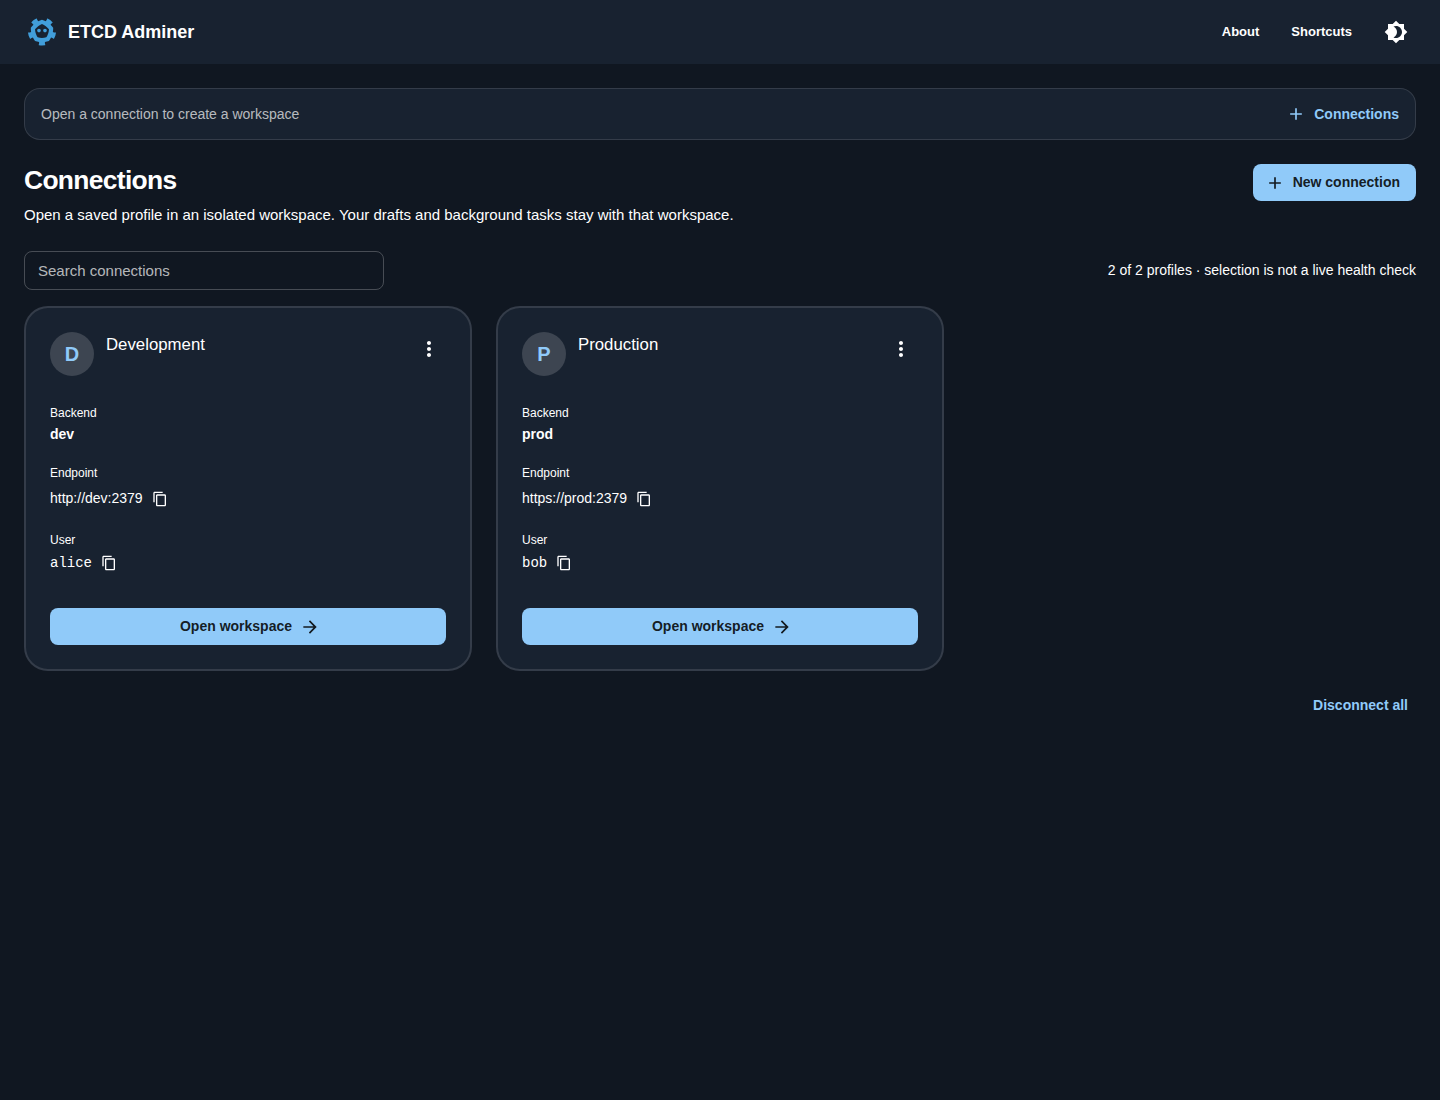
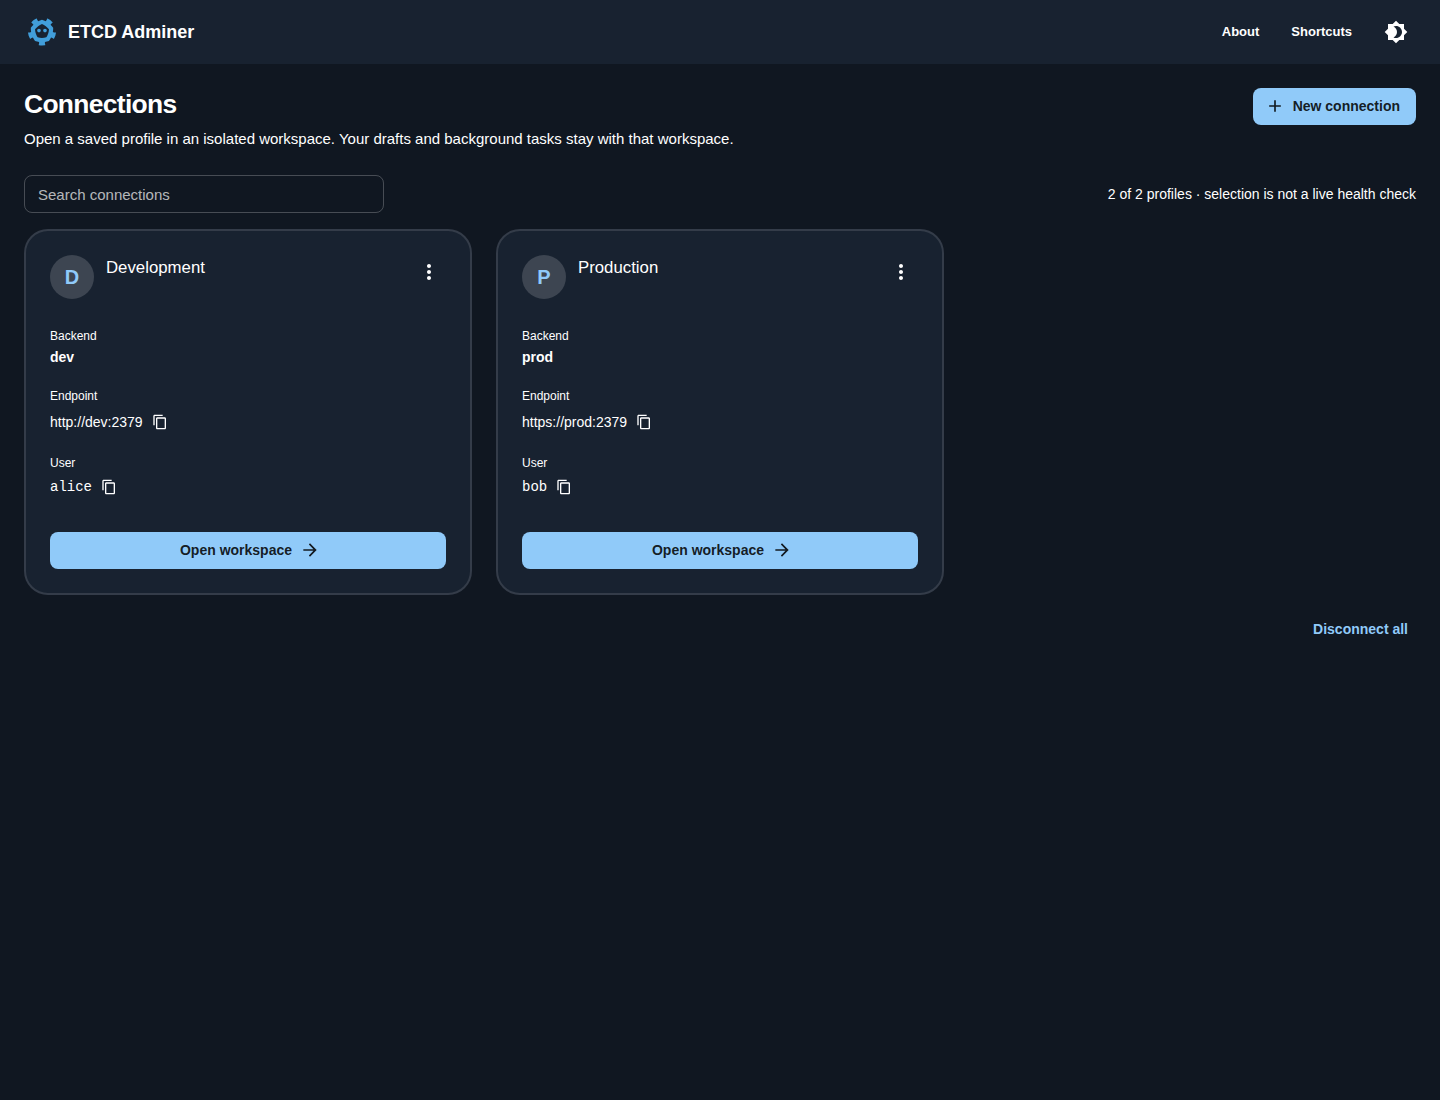
Hide redundant empty workspace bar on Connections

diff --git a/ui/src/App.jsx b/ui/src/App.jsx
@@ -317,21 +317,26 @@ function Shell({ mode, toggleMode }) {
         maxWidth={false}
         sx={{ py: { xs: 2, sm: 3 }, px: { xs: 2, sm: 3, xl: 4 }, minWidth: 0, outline: 'none' }}
       >
-        <WorkspaceTabs
-          workspaces={workspaces}
-          activities={activities}
-          active={managing ? '' : (selected?.id ?? '')}
-          onChange={(id) => {
-            setActive(id);
-            const workspace = workspaces.find((item) => item.id === id);
-            if (workspace)
-              navigateBrowser(
-                workspaceURL(workspace.profile.Name, locations.current.get(workspace.profile.Name)),
-              );
-          }}
-          onClose={close}
-          onConnections={() => setPage('connection')}
-        />
+        {(workspaces.length > 0 || page !== 'connection') && (
+          <WorkspaceTabs
+            workspaces={workspaces}
+            activities={activities}
+            active={managing ? '' : (selected?.id ?? '')}
+            onChange={(id) => {
+              setActive(id);
+              const workspace = workspaces.find((item) => item.id === id);
+              if (workspace)
+                navigateBrowser(
+                  workspaceURL(
+                    workspace.profile.Name,
+                    locations.current.get(workspace.profile.Name),
+                  ),
+                );
+            }}
+            onClose={close}
+            onConnections={() => setPage('connection')}
+          />
+        )}
         {notice && (
           <Alert severity="warning" onClose={() => setNotice('')} sx={{ mb: 2 }}>
             {notice}

diff --git a/ui/src/App.test.jsx b/ui/src/App.test.jsx
@@ -70,6 +70,10 @@ test('closes shortcut help using the header close icon', async () => {
 test('renders an actionable empty connection screen', async () => {
   render(<App />);
   expect(await screen.findByText('ETCD Adminer')).toBeInTheDocument();
+  expect(screen.queryByRole('tablist', { name: 'Connection workspaces' })).not.toBeInTheDocument();
+  expect(
+    screen.queryByRole('button', { name: 'Connections', exact: true }),
+  ).not.toBeInTheDocument();
   expect(
     screen.getByRole('button', { name: 'ETCD Adminer — Connections' }).querySelector('img'),
   ).toHaveAttribute('src', '/images/logo.svg');
